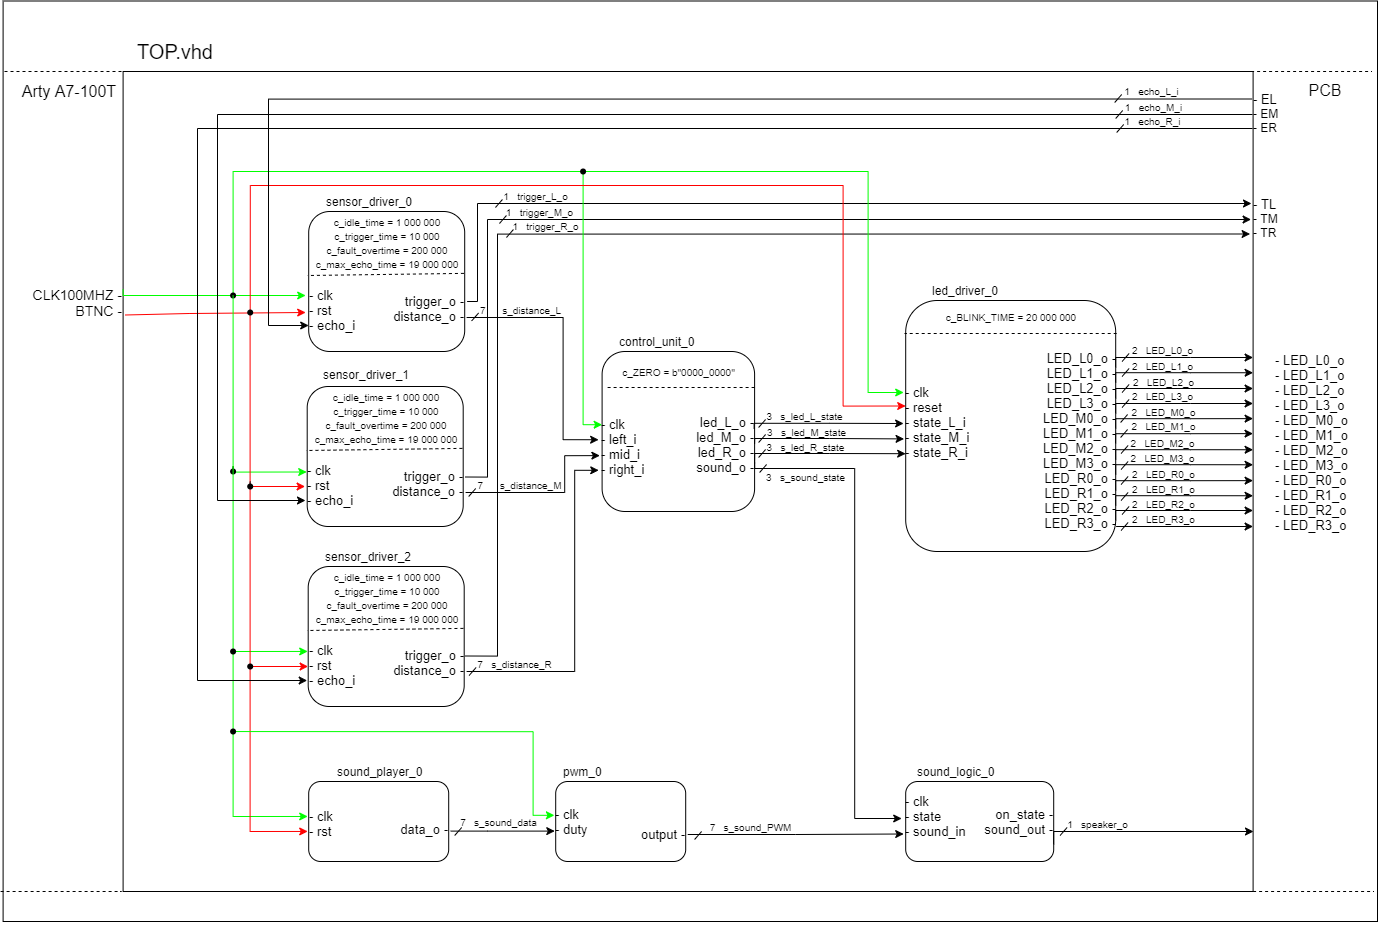
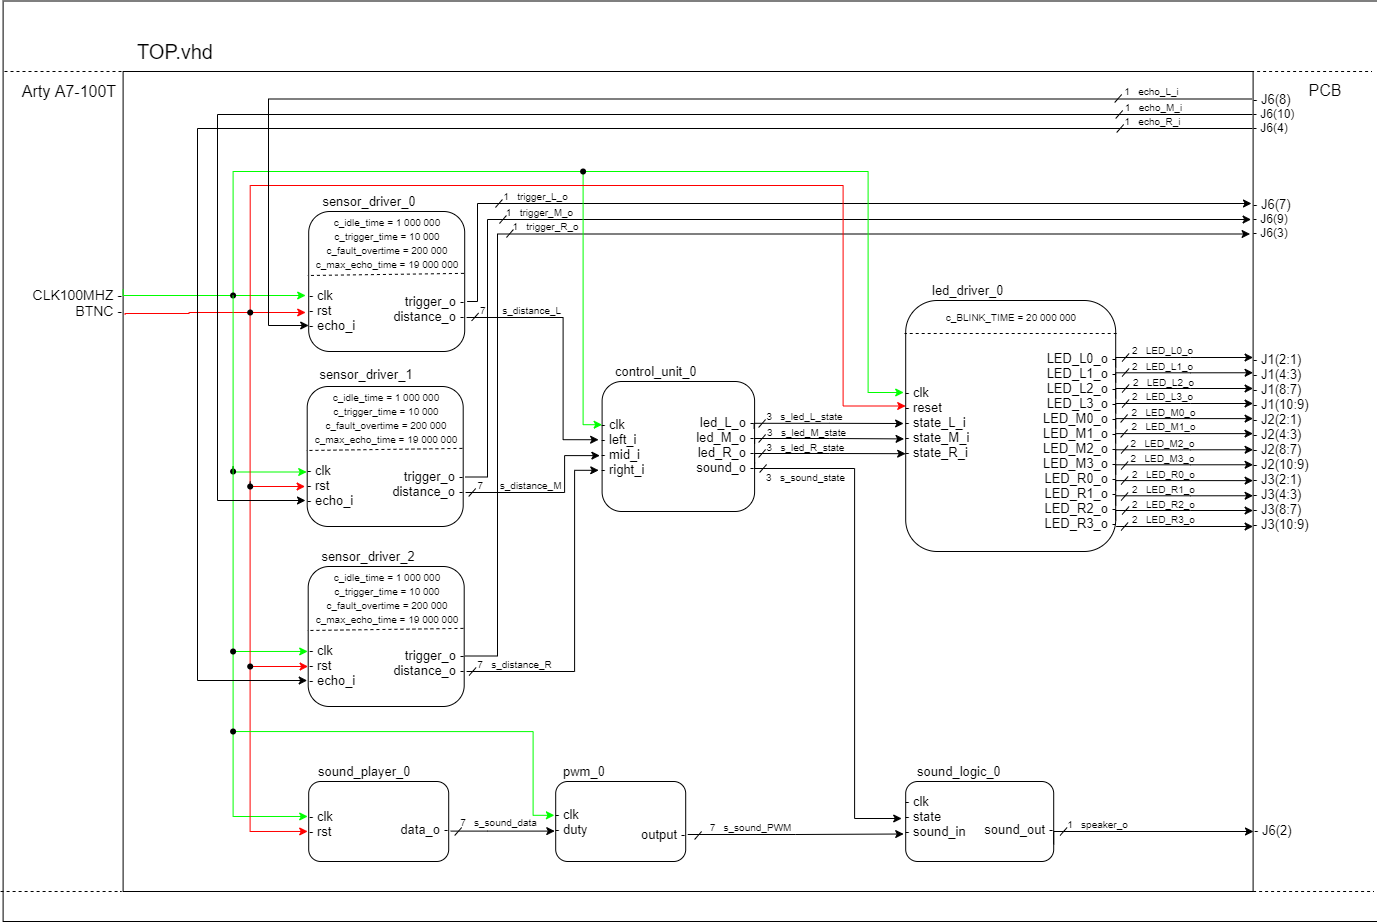
edit top architecture diagram

diff --git a/work_schedule.md b/work_schedule.md
@@ -1,0 +1,67 @@
+# Základní skica topologie
+![work_schelude](Doc/work_schelude.png)
+# Rozvrh práce
+Do 16.4. mějme hotové source kódy. Během víkendu to dáme dohromady a zkusíme první funkčnost. Níže je rozpis práce jednotlivých členů. Libovolně upravujte připisujte, založte si vlastní oddíl...
+
+
+## Samuel - Audio signalizace
+* Vstup z řízení `3b`. 
+* `000` odpovídá stavu **vypnuto**
+* `001` až `111` odpovídá dalekému stavu až blízkému stavu
+* Pomocí **PWM** modulace vytvořit sinusový signál pro reproduktor
+* Podle blízkosti se bude měnit rychlost pískání
+* může se měnit i kmitočet 
+
+## Zdeni - Led signalizace
+* 3x4 **RGB LED** ,každé 4 pro jeden směr - lze řešit separátně, takže stačí napsat jeden modul a zkopírovat.
+* Vstup z řízení `3b`. 
+* `000` odpovídá stavu **vypnuto**
+* `001` až `111` odpovídá dalekému stavu až blízkému stavu
+* Zelená pro daleký stav, červená pro blízký stav. stačí rozlišit **4 stavy** (chlapi jsou stejně barvoslepí)
+* Pro poslední (nejbižší) stav , může LED začít rychle blikat
+
+## Dominik - Řídící logika
+* Vyhodnocení změřené vzdálenosti z driveru senzoru a to převede na 3 b výstup pro **světelnou** a **audio** signalizaci
+* Vstup z **senzor_driver** `8b`
+* Výstup LED signalizace `3x3b`
+* Výstup AUDIO signalizace `1x3b` (vždy se vezme ta nejbližší vzdálenost)
+* `000` odpovídá stavu **vypnuto**
+* `001` až `111` odpovídá dalekému stavu 
+* Ošetření rychlých změn
+* Ošetření krátkých zákmitů senzoru (glitch)
+*  Průměrování vzorků..?
+* Do budoucna možná PCB..? (domluvíme se)
+
+## Pavel - Distance sensor
+* Simulace, testbench a driver k senzoru vzdálenosti
+* výstup `8b` do řídící logiky
+
+## David - Svačinář
+* nám všem doveze kafe a sváču
+* ...protože se zatím neozval.
+* Pro mě preso bez mlíka a cukru...díky :)
+
+## 22.duben.
+Další rozvrh práce na další dva týdny
+
+**TODO list:**
+* Top architektura + testbench + celková simulace `PAVEL/SAM` (až po PWM)
+* Dokumentace (celková) `ZDENI`
+    * Video (5min)
+    * Git
+    * Projít kódy (komenty)
+* PWM driver `SAM`
+* LUT (look up table -> memory module) `PAVEL`
+* HW `DOMINIK`
+    * schemata
+    * PCB
+    * (hodí se i 3D model ;) )
+
+**Všichni:**
+* Letmá dokumentace modulů (vstupy výstupy, simulace...)
+
+# Notes
+*Sem pište obecné připomínky, myšlenky, o kterých chcete informovat ostatní. Pro zbytek si založte ve složce dokumentace `Doc` vlastní podsložku která se bude vztahovat k dokumantaci vašeho bloku systému*
+
+* Kdyby cokoliv hořelo, volejte **kdykoliv** na muj tel 731937719, nebo napište na discord.
+* dopište nahoru do sekce members svoje id

diff --git a/README.md b/README.md
@@ -109,31 +109,31 @@ Here we will see specific simulations of each output. The simulation input param
 ### Simulation of sensor
 This simulation shows us the effect of the corelation between the echo pulse and the distance.
 
-![top_architecture](Doc/Top/img/sensor_sim.PNG)
+![sensor_sim](Doc/Top/img/sensor_sim.PNG)
 
 ### Simulation of LEDs of left sensor
 This simulation shows us not only the LEDS states and the given colour shinning for the left sensor but also the sensor output itself. When both green and red is activated, yellow shines.
 
-![top_architecture](Doc/Top/img/ledL_sim.PNG)
+![ledL_sim](Doc/Top/img/ledL_sim.PNG)
 
 ### Simulation of LED blinking at state HIGH2
-![top_architecture](Doc/Top/img/led_proof.PNG)
+![led_proof](Doc/Top/img/led_proof.PNG)
 
 ### Simulation of LEDs of middle sensor
-![top_architecture](Doc/Top/img/ledM_sim.PNG)
+![ledM_sim](Doc/Top/img/ledM_sim.PNG)
 
 ### Simulation of LEDs of right sensor
-![top_architecture](Doc/Top/img/ledR_sim.PNG)
+![ledR_sim](Doc/Top/img/ledR_sim.PNG)
 
 ### Simulation of the speaker
 This simulation shows us the sound output - the beeping signal. All sensor outputs are displayed so we can see the dependency of the speaker for the sensor with the object closest to it. For the purpose of this simulation the `on_state` time has been reduced in `sound_logic`.
 
-![top_architecture](Doc/Top/img/sound_sim.PNG)
+![sound_sim](Doc/Top/img/sound_sim.PNG)
 
 ### Closer look at PWM signal
 This simulation shows us a nearer look at the pwm signal.
 
-![top_architecture](Doc/Top/img/pwm_proof.PNG)
+![pwm_proof](Doc/Top/img/pwm_proof.PNG)
 
 ## Video
 
